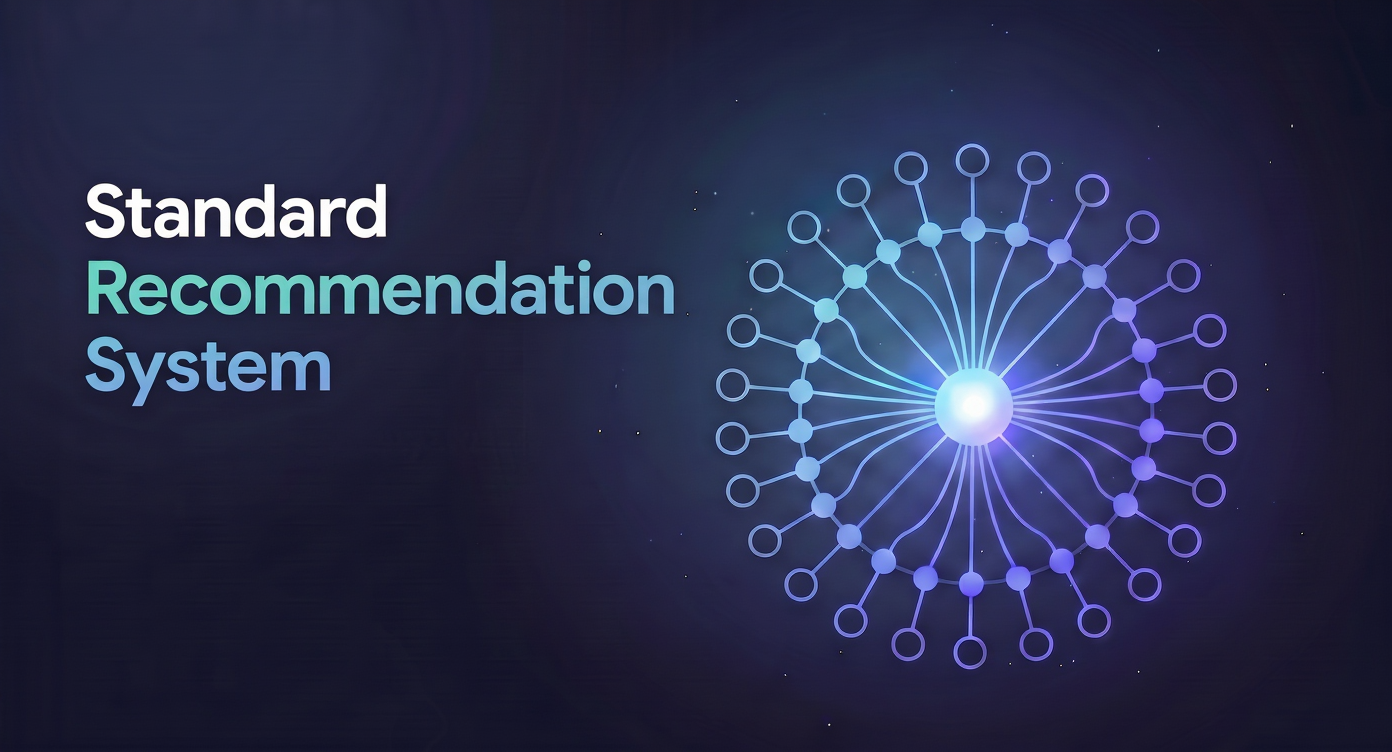
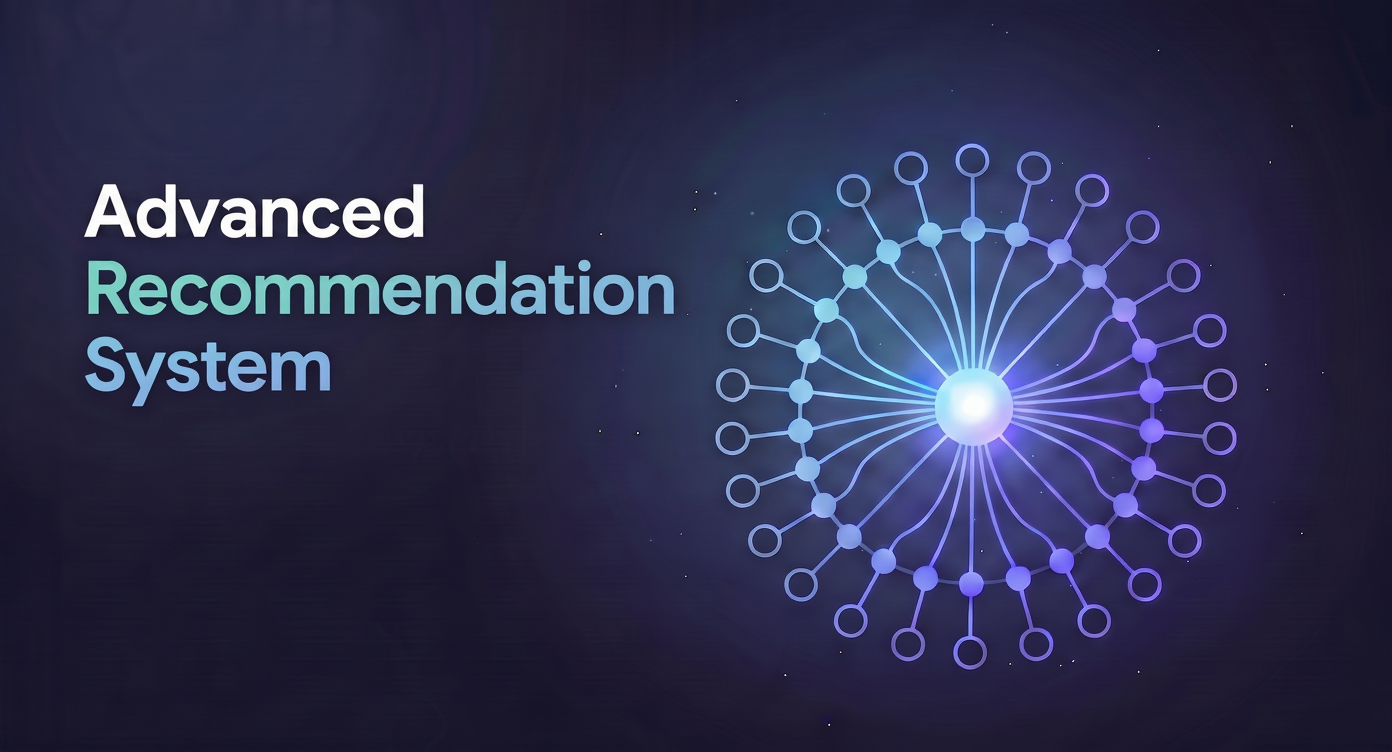
feat: rename BloomReady title, simplify description, and update Advanced Recommendation image

Changed region(s): [[0.0618, 0.2447, 0.3089, 0.3364]]

diff --git a/front-end/app/templates/recommendations.html b/front-end/app/templates/recommendations.html
@@ -1385,9 +1385,9 @@
                         <!-- BloomReady Card -->
                         <div class="rec-selector-card bloomready-card" onclick="selectRecSystem('bloomready')">
                             <div class="bloomready-badge">Advanced & AI</div>
-                            <h3 class="rec-card-title">BloomReady System</h3>
+                            <h3 class="rec-card-title">BloomReady Recommendation System</h3>
                             <img src="{{ url_for('static', filename='images/Advanced_Recommendation_system.jpg') }}" alt="Advanced Recommendation System Preview" class="rec-card-img">
-                            <p class="rec-card-desc">Verify academic prerequisites, analyze course syllabi using AI, and self-assess your cognitive readiness for advanced material.</p>
+                            <p class="rec-card-desc">Verify your academic prerequisites, analyze syllabus contents, and evaluate your readiness using interactive assessments.</p>
                             <span class="rec-card-action-btn">Enter BloomReady</span>
                         </div>
                     </div>
